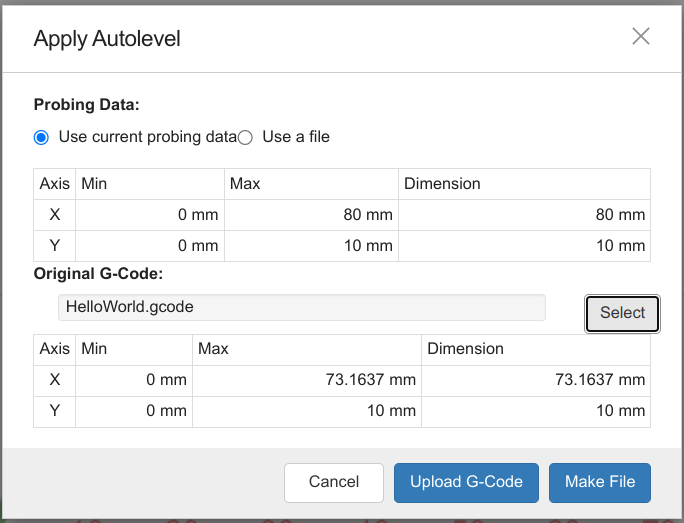
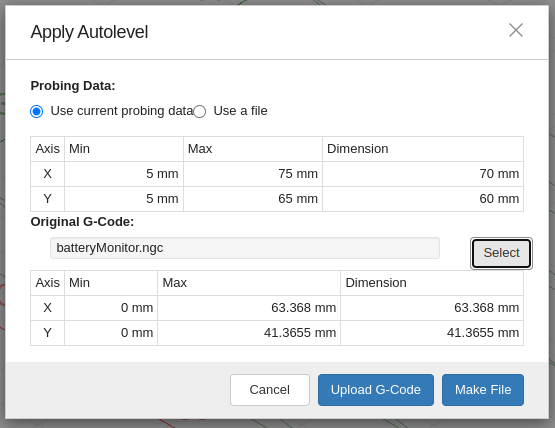
u

diff --git a/cncjsAL/manual.html b/cncjsAL/manual.html
@@ -141,16 +141,13 @@
           as the probe touches each individual point
         </p>
         <p>
-          <img src="images/HelloWorld_results.png" alt="HelloWorld_results" width="" height="350"> <br>
+          <img src="images/PCB_results.png" alt="PCB_results" width="" height=""> <br>
         </p>
 
         <h2>Applying AutoLevel results</h2>
 
         We can now modify the G-code of the circuit.<br>
         <p>Click on "Apply" in the AutoLevel widget</p>
-        <p>
-          <img src="images/apply_01.png" alt="apply_01" width="" height="350"> <br>
-        </p>
         <p>
           To use the results of the just completed probing run, leave the checkbox named "Use current probing data"
           checked.
@@ -173,9 +170,14 @@
         </p>
         <p>Or you can save the autolevelled G-Code to a File<br>
           by clicking on "Make File"
-
         </p>
 
+
+
+        <p>
+          <img src="images/gcode_with_AL.png" alt="gcode_with_AL" width="" height="350"> <br>
+        </p>
+        <p>Remove the probe and run the autolevelled gcode</p>
         <p>
           <img src="images/PCB_milled_01.png" alt="PCB_milled_01" width="" height="350"> <br>
         </p>
